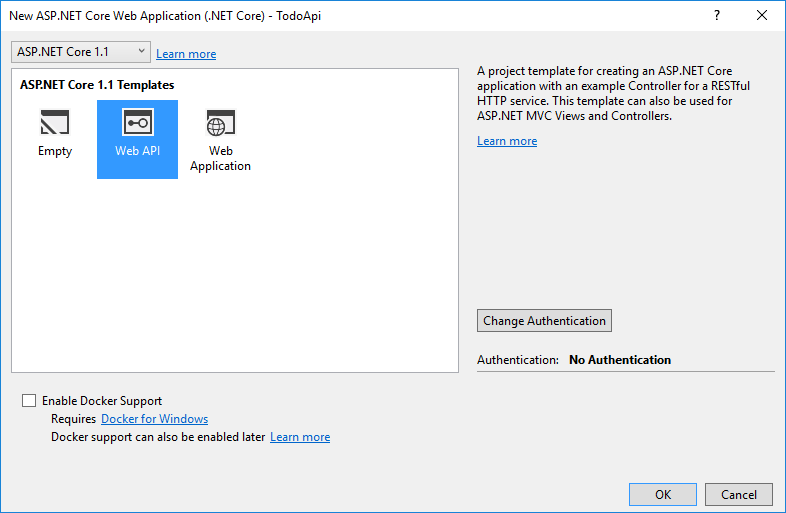
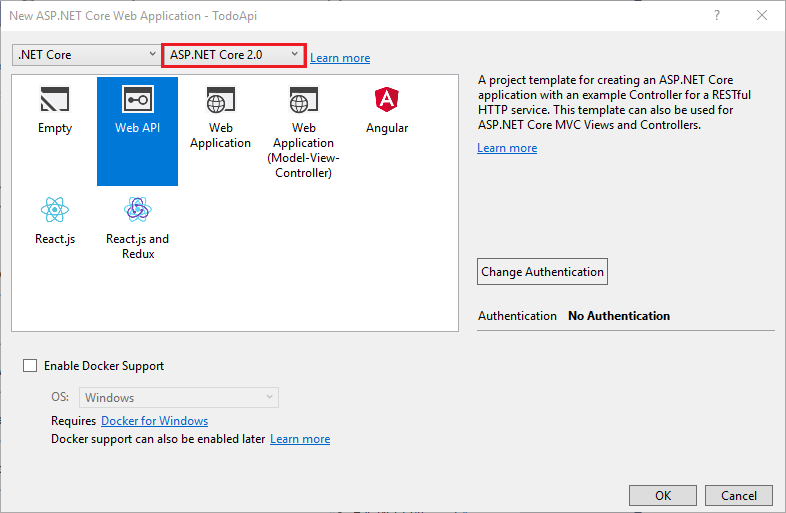
update Web API intro to v2.0

diff --git a/aspnetcore/tutorials/first-web-api.md b/aspnetcore/tutorials/first-web-api.md
@@ -5,9 +5,8 @@ description: Build a web API with ASP.NET Core MVC and Visual Studio for Windows
 keywords: ASP.NET Core, WebAPI, Web API, REST, HTTP, Service, HTTP Service
 ms.author: riande
 manager: wpickett
-ms.date: 5/24/2017
+ms.date: 8/15/2017
 ms.topic: get-started-article
-ms.assetid: 830b4af5-ed14-423e-9f59-764a6f13a8f6
 ms.technology: aspnet
 ms.prod: asp.net-core
 uid: tutorials/first-web-api
@@ -29,6 +28,10 @@ There are 3 versions of this tutorial:
 
 [!INCLUDE[intro to web API](../includes/webApi/intro.md)]
 
+## Prerequisites
+
+[!INCLUDE[install 2.0](../../includes/install2.0.md)]
+
 ## Create the project
 
 From Visual Studio, select **File** menu, > **New** > **Project**.
@@ -37,13 +40,13 @@ Select the **ASP.NET Core Web Application (.NET Core)** project template. Name t
 
 ![New project dialog](first-web-api/_static/new-project.png)
 
-In the **New ASP.NET Core Web Application (.NET Core) - TodoApi** dialog, select the **Web API** template. Select **OK**. Do **not** select **Enable Docker Support**.
+In the **New ASP.NET Core Web Application - TodoApi** dialog, select the **Web API** template. Select **OK**. Do **not** select **Enable Docker Support**.
 
 ![New ASP.NET Web Application dialog with Web API project template selected from ASP.NET Core Templates](first-web-api/_static/web-api-project.png)
 
 ### Launch the app
 
-In Visual Studio, press CTRL+F5 to launch the app. Visual Studio launches a browser and navigates to `http://localhost:port/api/values`, where *port* is a randomly chosen port number. If you're using Chrome, Edge or Firefox, the `ValuesController` data will be displayed:
+In Visual Studio, press CTRL+F5 to launch the app. Visual Studio launches a browser and navigates to `http://localhost:port/api/values`, where *port* is a randomly chosen port number. Chrome, Edge, and Firefox, display the following:
 
 ```
 ["value1","value2"]

diff --git a/aspnetcore/includes/webApi/intro.md b/aspnetcore/includes/webApi/intro.md
@@ -22,4 +22,4 @@ The following diagram shows the basic design of the app.
 
 * A *controller* is an object that handles HTTP requests and creates the HTTP response. This app will have a single controller.
 
-* To keep the tutorial simple, the app doesn’t use a persistent database. Instead, it stores to-do items in an in-memory database.
+* To keep the tutorial simple, the app doesn’t use a persistent database. The sample app stores to-do items in an in-memory database.
